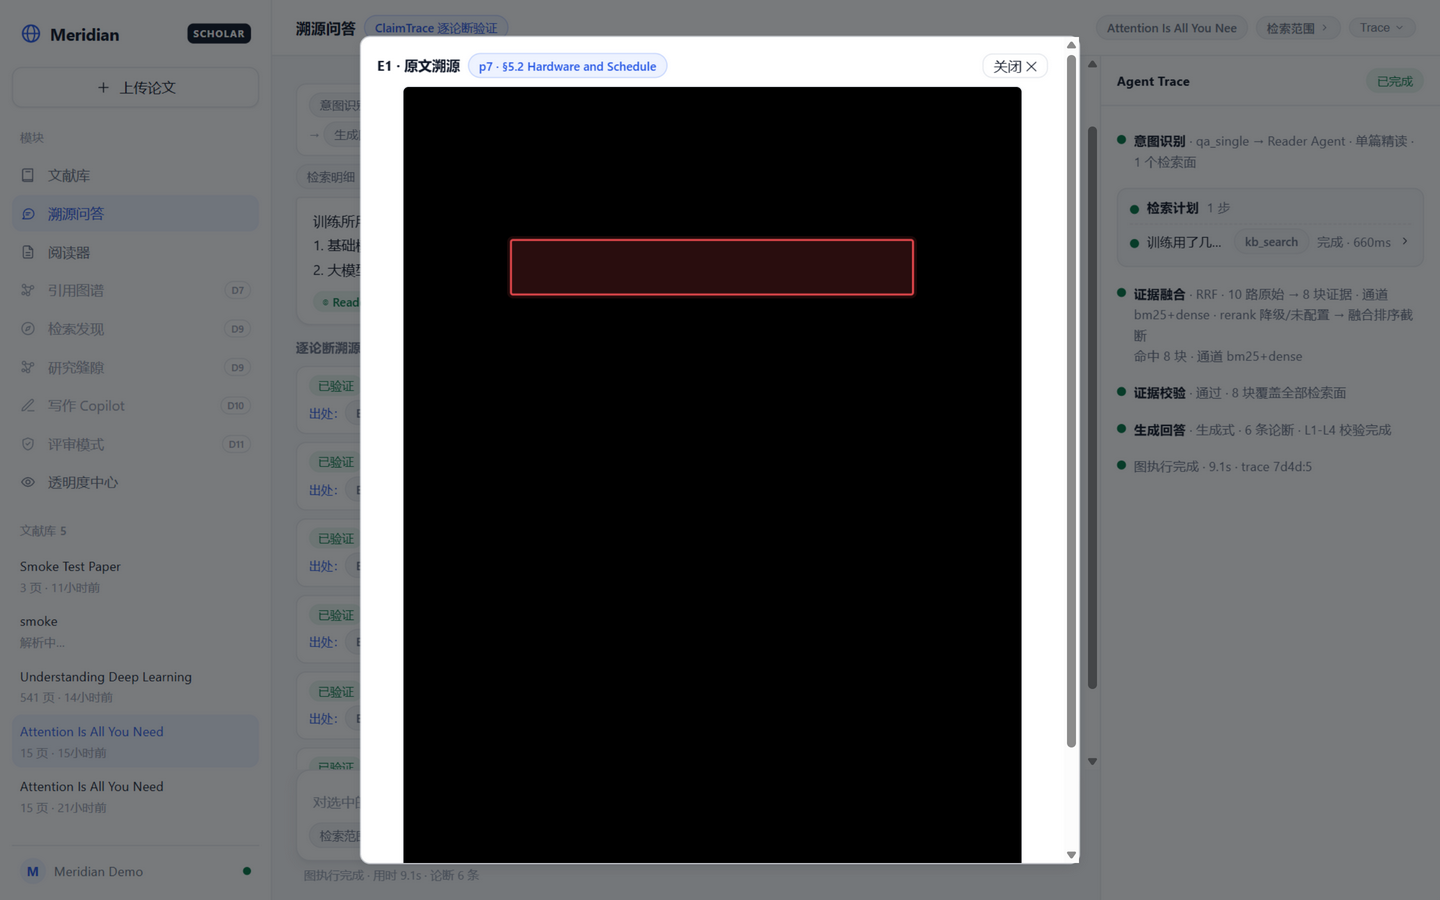
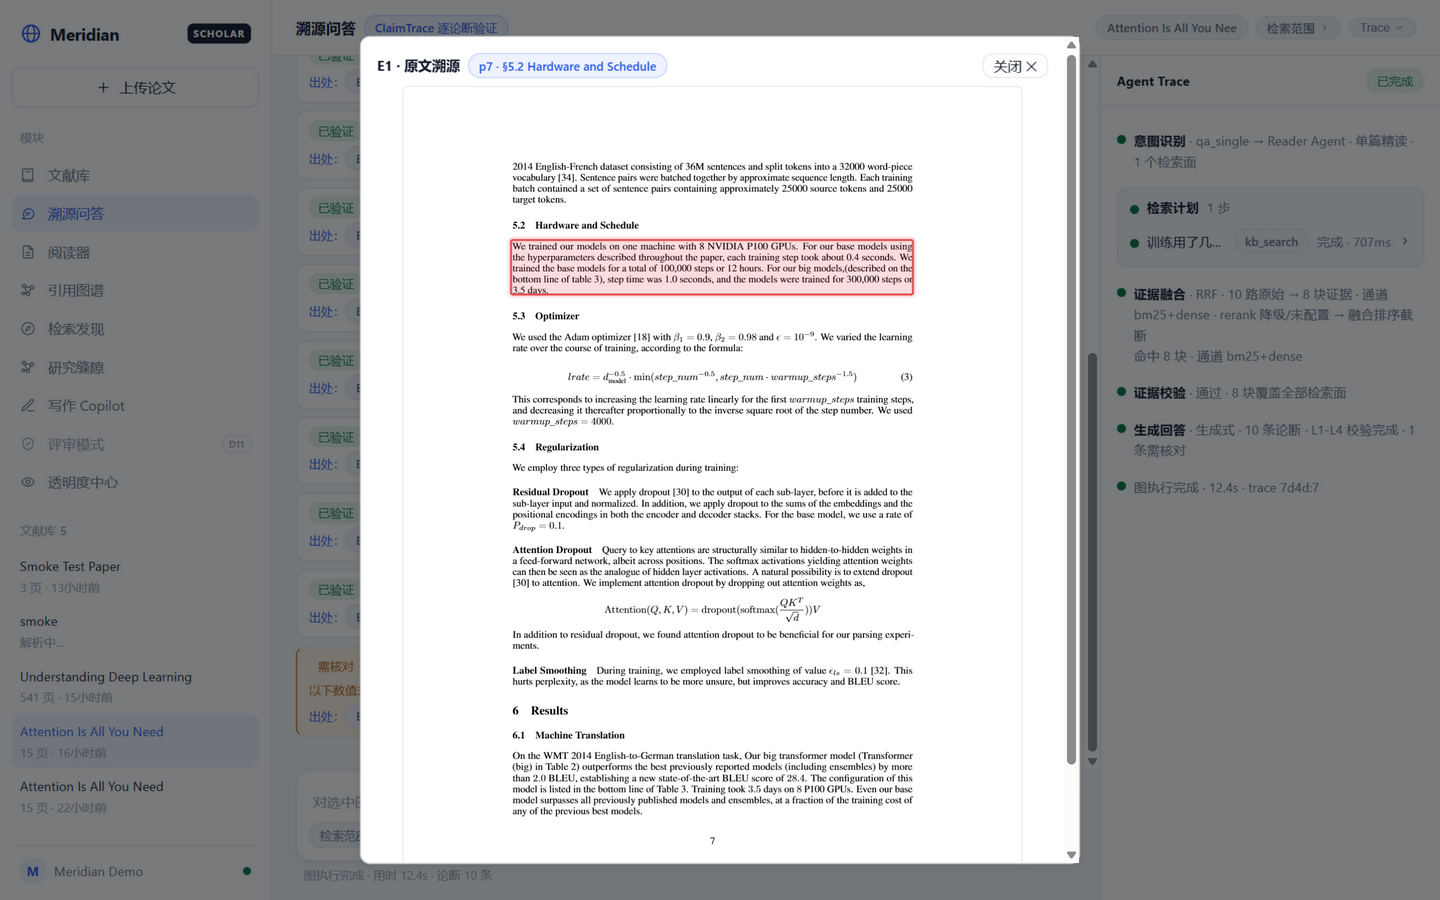
fix(round2-rc2): PdfAnchored 渲染竞态修复（离屏 canvas+token+cancel）——02 重拍且像素校验 0.97 非黑

diff --git a/web/components/PdfAnchored.tsx b/web/components/PdfAnchored.tsx
@@ -6,6 +6,10 @@
  *
  * worker 部署在 public/pdf.worker.min.mjs（由 node_modules/pdfjs-dist/build 复制，
  * 升级 pdfjs-dist 版本后需重新复制，保持离线演示可用）。
+ *
+ * 渲染竞态防护（P1-5：旧实现两次异步 render 写同一可见 canvas → 黑屏/花屏）：
+ * ① render token（tokenRef）作废过期异步流；② 旧 renderTask.cancel()；
+ * ③ 先渲染到**离屏 canvas**，完成后一次性 drawImage 上屏（原子，无中途清屏）。
  */
 import { useEffect, useRef, useState } from "react";
 import { API } from "@/lib/api";
@@ -19,10 +23,13 @@ interface Props {
 
 export default function PdfAnchored({ paperId, page, bbox, width = 620 }: Props) {
   const canvasRef = useRef<HTMLCanvasElement>(null);
+  const tokenRef = useRef(0);
+  const taskRef = useRef<{ cancel(): void } | null>(null);   // 属性访问不触发 TS CFA 收窄
   const [error, setError] = useState("");
   const [ready, setReady] = useState(false);
 
   useEffect(() => {
+    const myToken = ++tokenRef.current;
     let cancelled = false;
     let cleanup: (() => void) | null = null;
     setError("");
@@ -35,27 +42,38 @@ export default function PdfAnchored({ paperId, page, bbox, width = 620 }: Props)
         if (!resp.ok) throw new Error(`PDF HTTP ${resp.status}`);
         const data = await resp.arrayBuffer();
         const doc = await pdfjs.getDocument({ data }).promise;
-        if (cancelled) { void doc.destroy(); return; }
-        const p = doc.getPage(Math.max(1, page));
-        if (!p) throw new Error(`页码越界（共 ${doc.numPages} 页）`);
-        const pdfPage = await p;
+        if (cancelled || myToken !== tokenRef.current) { void doc.destroy(); return; }
+        const pdfPage = await doc.getPage(Math.max(1, page));
         const base = pdfPage.getViewport({ scale: 1 });
         const scale = width / base.width;
         const viewport = pdfPage.getViewport({ scale: scale * 2 });   // 2x 渲染抗锯齿
+
+        // 离屏渲染：完成后一次性上屏（旧任务先 cancel，杜绝双 render 竞争同一 2d 上下文）
+        taskRef.current?.cancel();
+        const off = document.createElement("canvas");
+        off.width = viewport.width;
+        off.height = viewport.height;
+        const task = pdfPage.render({ canvasContext: off.getContext("2d")!, viewport });
+        taskRef.current = task;
+        await task.promise;
+        if (cancelled || myToken !== tokenRef.current) { void doc.destroy(); return; }
+
         const canvas = canvasRef.current;
-        if (!canvas) return;
-        canvas.width = viewport.width;
-        canvas.height = viewport.height;
-        await pdfPage.render({ canvasContext: canvas.getContext("2d")!, viewport }).promise;
-        if (cancelled) { void doc.destroy(); return; }
+        if (!canvas) { void doc.destroy(); return; }
+        canvas.width = off.width;
+        canvas.height = off.height;
+        canvas.getContext("2d")!.drawImage(off, 0, 0);
         setReady(true);
         cleanup = () => void doc.destroy();
       } catch (e) {
-        if (!cancelled) setError(e instanceof Error ? e.message : String(e));
+        if (!cancelled && myToken === tokenRef.current) {
+          setError(e instanceof Error ? e.message : String(e));
+        }
       }
     })();
     return () => {
       cancelled = true;
+      taskRef.current?.cancel();   // 作废在飞的 render（RenderingCancelledException → 静默）
       cleanup?.();
     };
   }, [paperId, page, width]);
